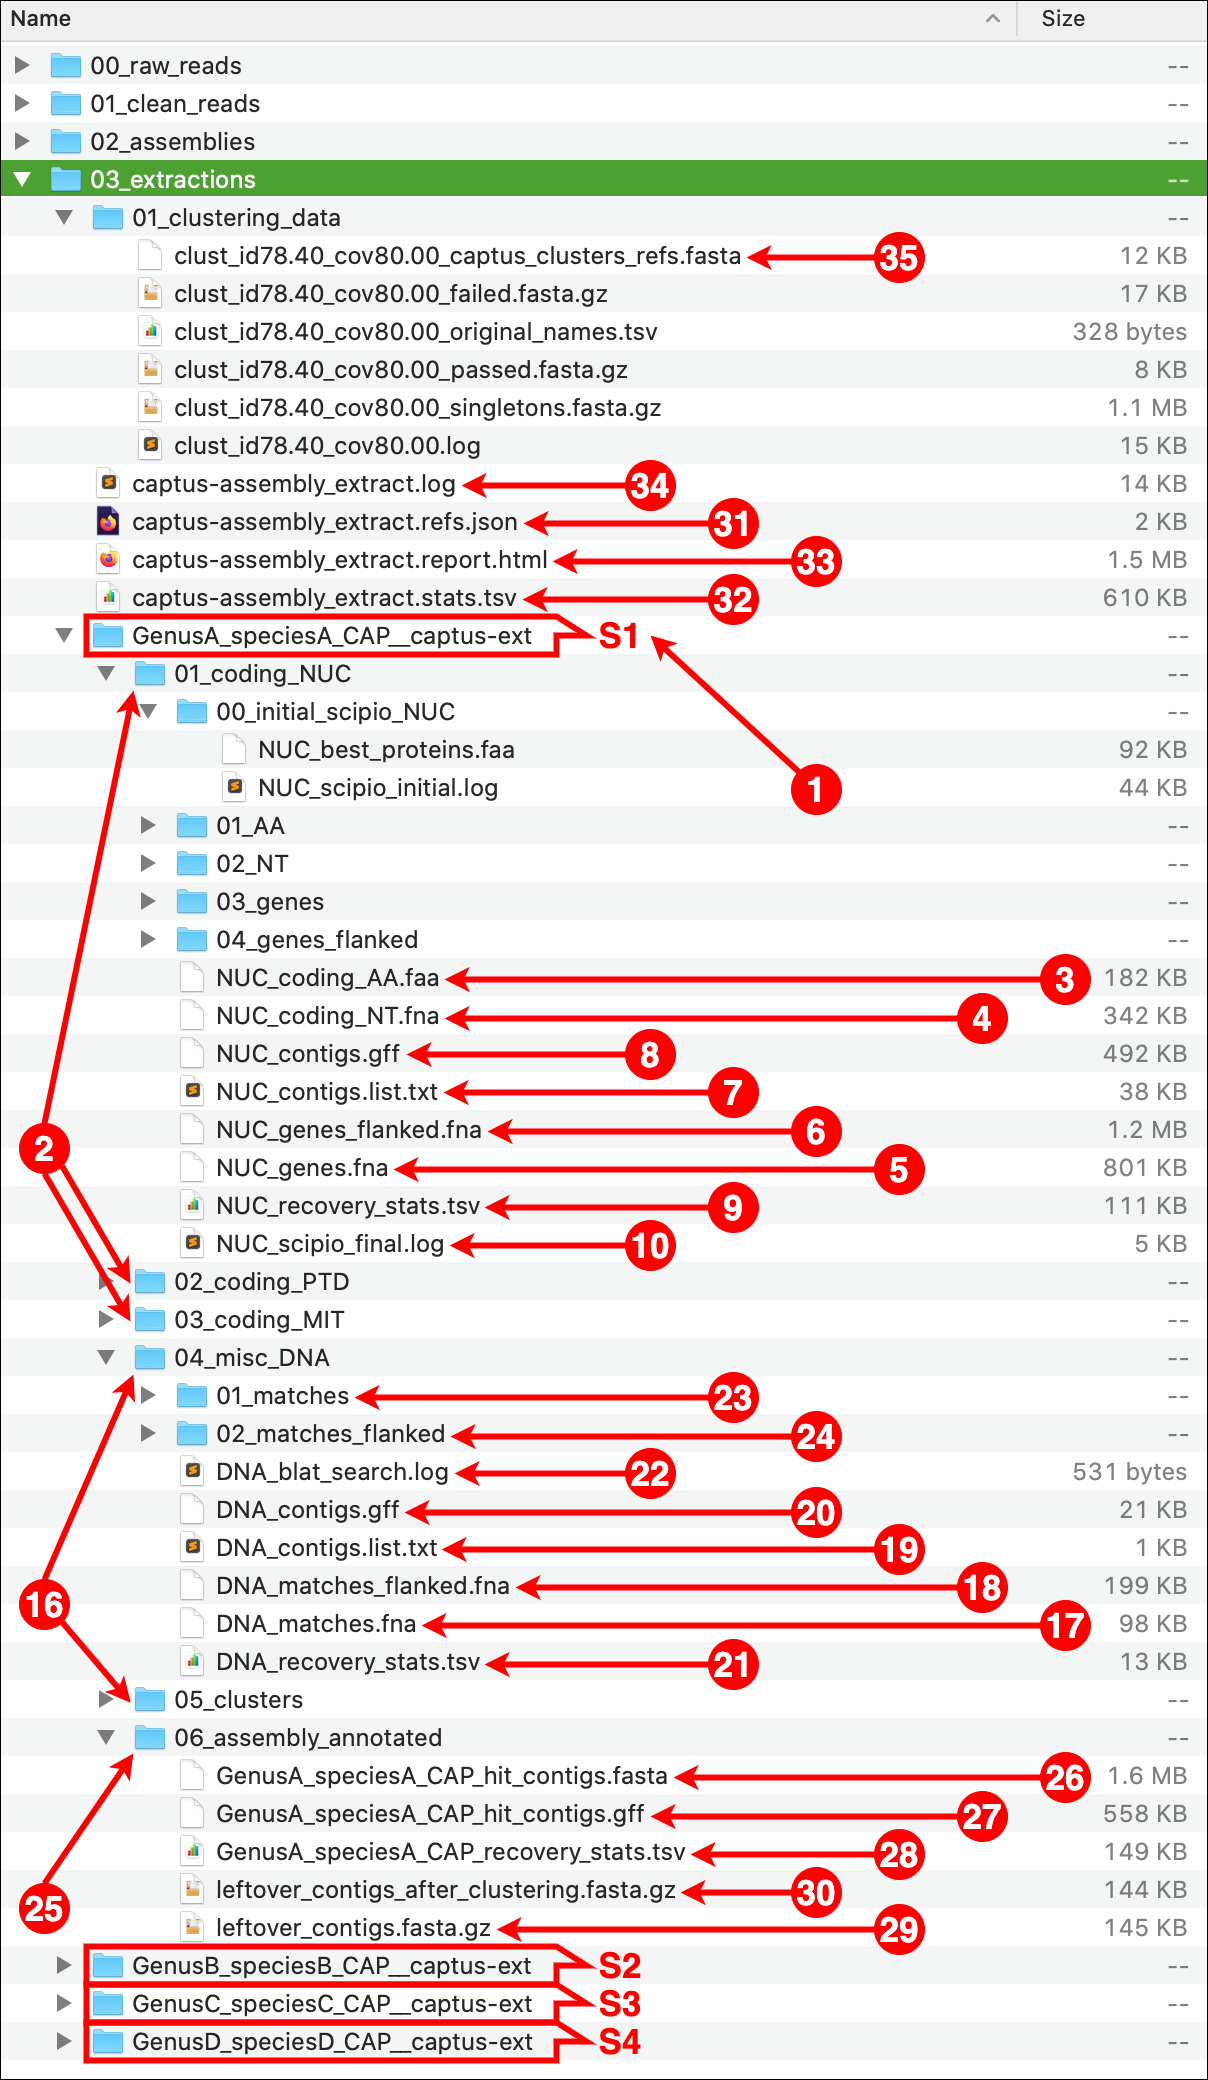
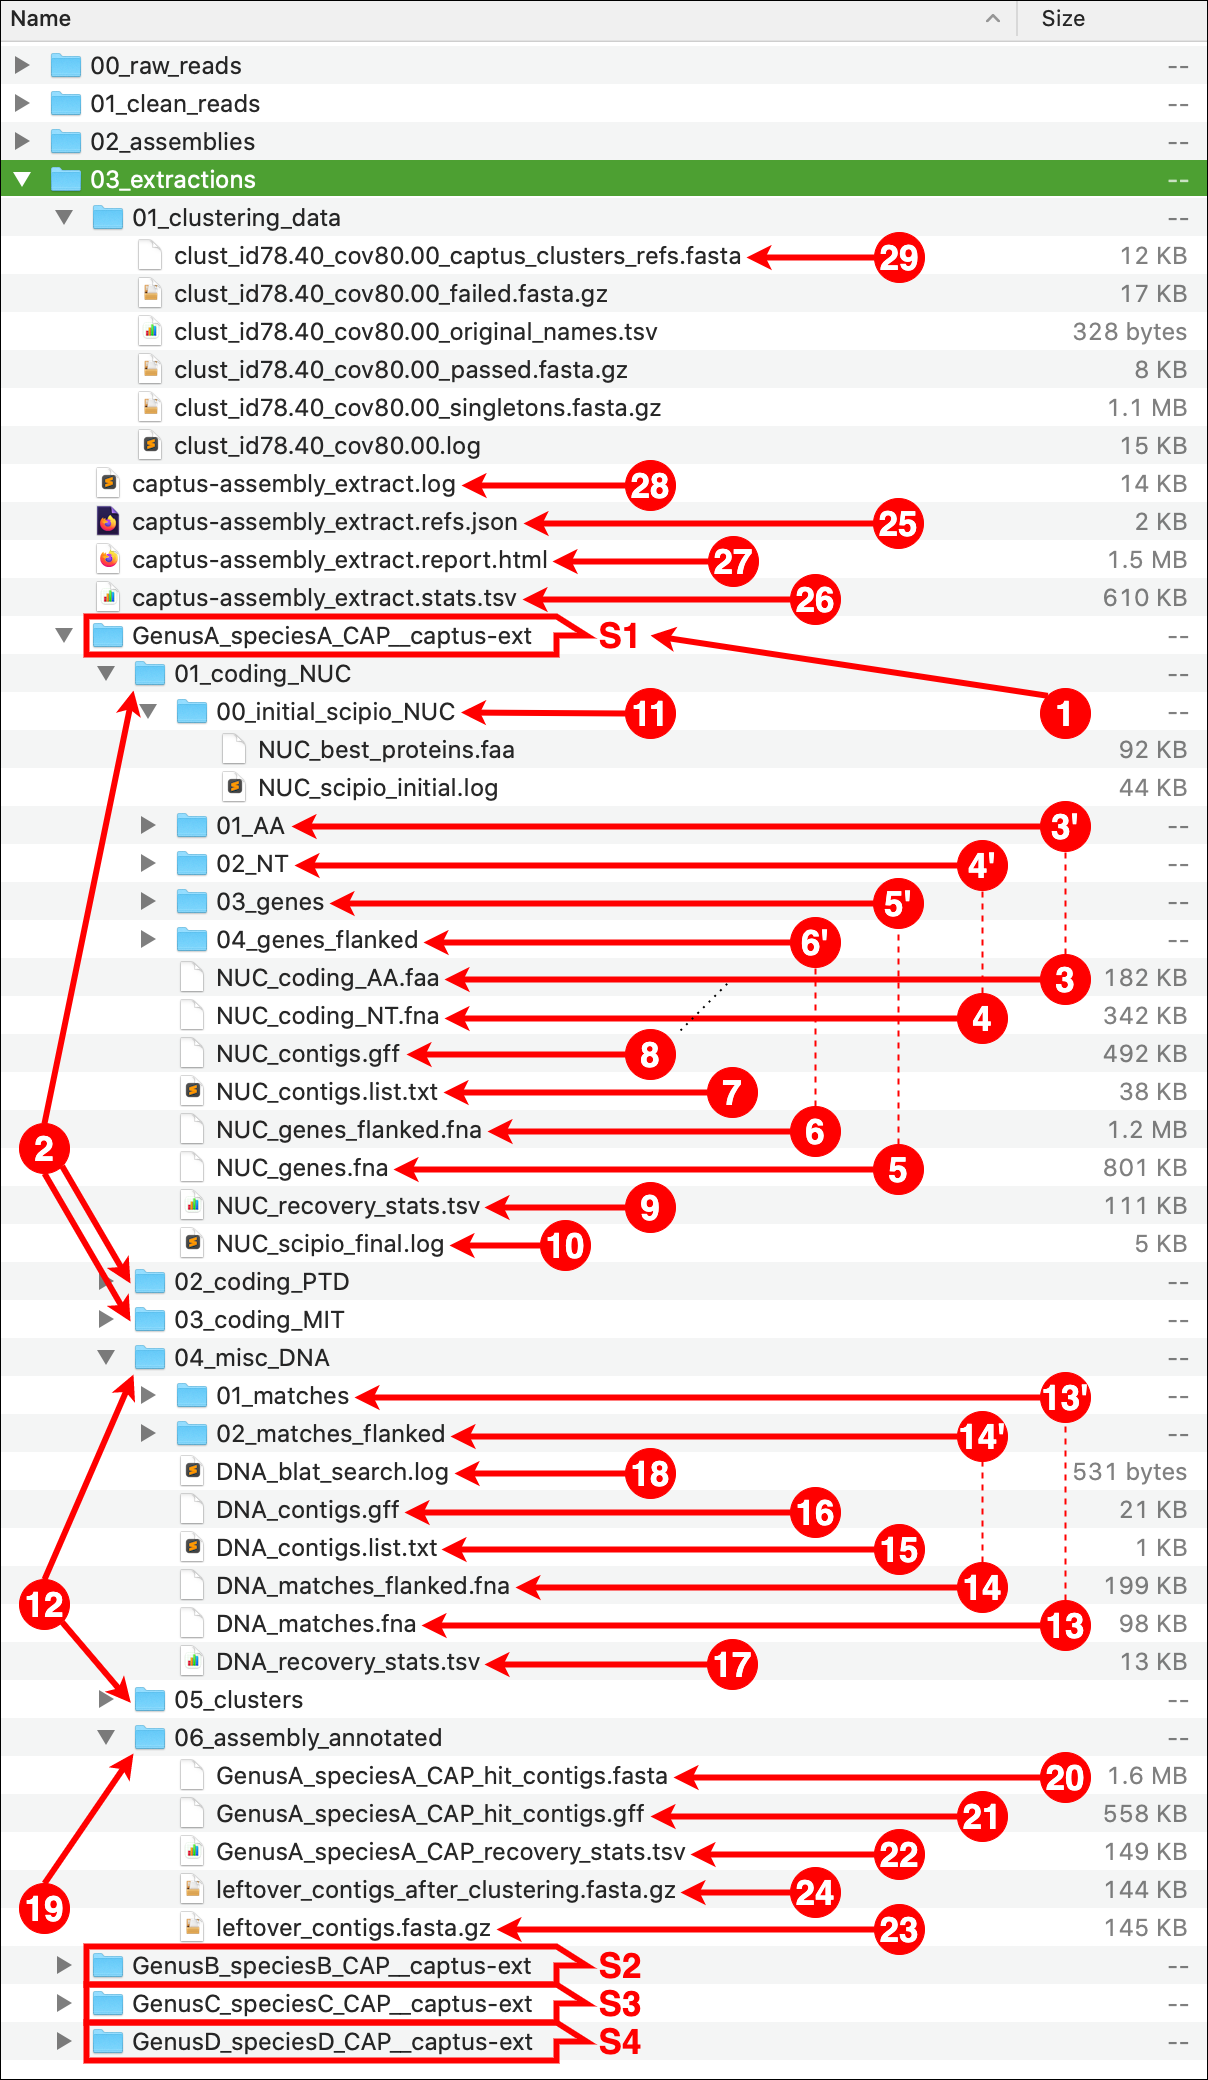
Updating to v0.0.28
- Fixed bug that didn't apply presets for assembly and instead always used default parameters

diff --git a/captus/assemble.py b/captus/assemble.py
@@ -205,21 +205,20 @@ def assemble(full_command, args):
     log.log(f'{"Threads per assembly":>{mar}}: {bold(threads_per_assembly)}')
     log.log("")
 
-    k_list, min_count, prune_level = args.k_list, args.min_count, args.prune_level
-    if args.preset:
-        if args.preset.upper() in settings.MEGAHIT_PRESETS:
-            if k_list == settings.MEGAHIT_K_LIST:
-                k_list = settings.MEGAHIT_PRESETS[args.preset.upper()]["k_list"]
-            if min_count == settings.MEGAHIT_MIN_COUNT:
-                min_count = settings.MEGAHIT_PRESETS[args.preset.upper()]["min_count"]
-            if prune_level == settings.MEGAHIT_PRUNE_LEVEL:
-                prune_level = settings.MEGAHIT_PRESETS[args.preset.upper()]["prune_level"]
-            log.log(f'{"preset":>{mar}}: {bold(args.preset.upper())}')
-        else:
-            log.log(f'{"preset":>{mar}}: {bold(args.preset)} not valid, using defaults!')
-
+    if not args.preset:
+        args.preset = "CAP"
+    if args.preset.upper() not in settings.MEGAHIT_PRESETS:
+        invalid_preset = args.preset
+        args.preset = "CAP"
+        log.log(f'{"preset":>{mar}}: {bold(args.preset)} ({invalid_preset} is not a valid preset)')
+    else:
+        args.preset = args.preset.upper()
+        log.log(f'{"preset":>{mar}}: {bold(args.preset.upper())}')
+    k_list = args.k_list if args.k_list else settings.MEGAHIT_PRESETS[args.preset]["k_list"]
     log.log(f'{"k_list":>{mar}}: {bold(k_list)}')
+    min_count = args.min_count if args.min_count else settings.MEGAHIT_PRESETS[args.preset]["min_count"]
     log.log(f'{"min_count":>{mar}}: {bold(min_count)}')
+    prune_level = args.prune_level if args.prune_level else settings.MEGAHIT_PRESETS[args.preset]["prune_level"]
     log.log(f'{"prune_level":>{mar}}: {bold(prune_level)}')
     log.log(f'{"merge_level":>{mar}}: {bold(args.merge_level)}')
     log.log(f'{"min_contig_len":>{mar}}: {bold(args.min_contig_len)}')
@@ -244,9 +243,9 @@ def assemble(full_command, args):
             fastq_dir,
             fastq_r1,
             fastq_r2,
-            args.k_list,
-            args.min_count,
-            args.prune_level,
+            k_list,
+            min_count,
+            prune_level,
             args.merge_level,
             ram_B_per_assembly,
             threads_per_assembly,

diff --git a/captus/captus_assembly.py b/captus/captus_assembly.py
@@ -379,7 +379,6 @@ class CaptusAssembly(object):
         megahit_group.add_argument(
             "--k_list",
             action="store",
-            default=settings.MEGAHIT_K_LIST,
             type=str,
             dest="k_list",
             help="Comma-separated list of kmer sizes, all must be odd values in the range 15-255, in"
@@ -391,7 +390,6 @@ class CaptusAssembly(object):
         megahit_group.add_argument(
             "--min_count",
             action="store",
-            default=settings.MEGAHIT_MIN_COUNT,
             type=int,
             dest="min_count",
             help="Minimum contig depth (a.k.a. multiplicity in MEGAHIT), accepted values are"
@@ -402,7 +400,6 @@ class CaptusAssembly(object):
         megahit_group.add_argument(
             "--prune_level",
             action="store",
-            default=settings.MEGAHIT_PRUNE_LEVEL,
             type=int,
             dest="prune_level",
             help="Prunning strength for low-coverage edges during graph cleaning. Increasing the"
@@ -427,6 +424,7 @@ class CaptusAssembly(object):
             help="B|The defaults work well with either hybridization capture or genome skimming data"
                  " up to 10M reads. You can assemble RNA-Seq reads or WGS reads using these presets."
                  " Be aware, these will require a minimum of 8GB of RAM to work well.\n"
+                 "CAP = --k-list 31,39,47,63,79,95,111,127,143,159,175 --min-count 2 --prune-level 2\n"
                  "RNA = --k-list 27,47,67,87,107,127,147,167 --min-count 2 --prune-level 2\n"
                  "WGS = --k-list 31,39,51,71,91,111,131,151,171 --min-count 3 --prune-level 2"
         )

diff --git a/captus/settings_assembly.py b/captus/settings_assembly.py
@@ -133,13 +133,14 @@ DELTA_MEAN_READ_LENGTH_TO_MAX_KMER_SIZE = 31
 # Minimum RAM in bytes for a MEGAHIT assembly
 MEGAHIT_MIN_RAM_B = 4 * 1024 ** 3
 
-# Defaults for MEGAHIT, optimized for hybridization capture or genome skimming
-MEGAHIT_K_LIST = "31,39,47,63,79,95,111,127,143,159,175"
-MEGAHIT_MIN_COUNT = 2
-MEGAHIT_PRUNE_LEVEL = 2
-
 # Presets for MEGAHIT assemblies of RNAseq and WGS
 MEGAHIT_PRESETS = {
+    "CAP": {
+        "k_list": "31,39,47,63,79,95,111,127,143,159,175",
+        "min_count": 2,
+        "prune_level": 2,
+        "min_ram_B": 4 * 1024 ** 3, # 4GB
+    },
     "RNA": {
         "k_list": "27,47,67,87,107,127,147,167",
         "min_count": 2,
@@ -147,7 +148,7 @@ MEGAHIT_PRESETS = {
         "min_ram_B": 8 * 1024 ** 3, # 8GB
     },
     "WGS": {
-        "k_list": "31,39,51,71,91,111,131,151,171",
+        "k_list": "31,39,49,69,89,109,129,149,169",
         "min_count": 3,
         "prune_level": 2,
         "min_ram_B": 8 * 1024 ** 3, # 8GB

diff --git a/captus/version.py b/captus/version.py
@@ -14,4 +14,4 @@ details. You should have received a copy of the GNU General Public License along
 not, see <http://www.gnu.org/licenses/>.
 """
 
-__version__ = '0.0.27'
+__version__ = '0.0.28'

diff --git a/docs/content/assembly/extract/output.md b/docs/content/assembly/extract/output.md
@@ -7,45 +7,102 @@ pre: '<i class="fas fa-dna"></i> '
 For this example we will use the directory `02_assemblies` previously created with the [`assemble` module]({{< ref "assembly/assemble/output">}}). We run the following `Captus` command to search and extract our reference markers from the assemblies:
 
 ```console
-captus_assembly extract \
--a 02_assemblies -o 03_extractions \
--n Angiosperms353 \
--p SeedPlantsPTD \
--m SeedPlantsMIT \
--d noncoding_DNA.fasta \
---cluster_leftovers
+captus_assembly extract -a 02_assemblies \
+-n Angiosperms353 -p SeedPlantsPTD -m SeedPlantsMIT \
+-d noncoding_DNA.fasta --cluster_leftovers
 ```
 
 After the run is finished we should see a new directory called `03_extractions` with the following structure and files:
 
 ![Extractions](/images/extractions.png?width=604)
 
-### 1. **`[sample]__captus-ext`**
+### 1. **`[SAMPLE_NAME]__captus-ext`**
 A subdirectory ending in `__captus-ext` is created to contain the extracted markers of each sample separately (S1, S2, S3, and S4 in the image).
 ___
-### 2. **`01_coding_NUC`, `02_coding_PTD`, `03_coding_MIT`**
+### 2. **`01_coding_NUC`**, **`02_coding_PTD`**, **`03_coding_MIT`**
 These directories contain the extracted **coding** markers from the **NUC**lear, **P**las**T**i**D**ial, and **MIT**ochondrial genomes respectively.
 ___
-### 3. **`_coding_AA.faa`**
+### 3. **`[MARKER_TYPE]_coding_AA.faa`**, **`01_AA`**
 Coding sequence in **aminoacids**. Prefixes can be `NUC`, `PTD`, or `MIT`.
 ___
-### 4. **`_coding_NT.fna`**
+### 4. **`[MARKER_TYPE]_coding_NT.fna`**, **`02_NT`**
 Coding sequence in **nucleotides**. Prefixes can be `NUC`, `PTD`, or `MIT`.
 ___
-### 5. **`_genes.fna`**
+### 5. **`[MARKER_TYPE]_genes.fna`**, **`03_genes`**
 Gene sequence (exons in capital letters + introns in lowercase letters) in **nucleotides**. Prefixes can be `NUC`, `PTD`, or `MIT`.
 ___
-### 6. **`_genes_flanked.fna`**
+### 6. **`[MARKER_TYPE]_genes_flanked.fna`**, **`04_genes_flanked`**
 Gene sequence (exons in capital letters + introns in lowercase letters) plus additional flanking sequence in lowercase **nucleotides**. Prefixes can be `NUC`, `PTD`, or `MIT`.
 ___
-### 7. **`_contigs_list.txt`**
+### 7. **`[MARKER_TYPE]_contigs_list.txt`**
 List of contig names that had protein hits. Prefixes can be `NUC`, `PTD`, or `MIT`.
 ___
-### 8. **`_contigs.gff`**
+### 8. **`[MARKER_TYPE]_contigs.gff`**
+Annotation track in GFF format for protein hits to contigs in assembly. Prefixes can be `NUC`, `PTD`, or `MIT`.
+___
+### 9. **`[MARKER_TYPE]_recovery_stats.tsv`**
+Tab-separated-values table with marker recovery statistics, these are summarized in the final [Marker Recovery report]({{< ref "assembly/extract/report">}}). Prefixes can be `NUC`, `PTD`, or `MIT`.
+___
+### 10. **`[MARKER_TYPE]_scipio_final.log`**
+Log of the second Scipio's run, where best references have already been selected (when using multi-sequence per locus references) and only the contigs that had hits durin Scipio's initial run are used. Prefixes can be `NUC`, `PTD`, or `MIT`.
+___
+### 11. **`00_initial_scipio_[MARKER_TYPE]`**
+Directory for Scipio's initial run results. The directory contains the set of filtered protein references `[MARKER_TYPE]_best_proteins.faa` (when using multi-sequence per locus references) and the log of Scipio's initial run `[MARKER_TYPE]_scipio_initial.log`. Suffixes can be `NUC`, `PTD`, or `MIT`.
+___
+### 12. **`04_misc_DNA`**, **`05_clusters`**
+These directories contain the extracted **miscellaneous DNA** markers, either from a **DNA** custom set of references or from the **CL**uste**R**ing resulting from using the option `--cluster_leftovers`.
+___
+### 13. **`[MARKER_TYPE]_matches.fna`**, **`01_matches`**
+Matches per miscellaneous DNA marker in **nucleotides**. Prefixes can be `DNA` or `CLR`.
+___
+### 14. **`[MARKER_TYPE]_matches_flanked.fna`**, **`02_matches_flanked`**
+Matches plus additional flanking sequence per miscellaneous DNA marker in **nucleotides**. Prefixes can be `DNA` or `CLR`.
+___
+### 15. **`[MARKER_TYPE]_contigs_list.txt`**
+List of contig names that had miscellaneous DNA marker hits. Prefixes can be `DNA` or `CLR`.
+___
+### 16. **`[MARKER_TYPE]_contigs.gff`**
 Fill
 ___
-### 9. **`_recovery_stats.tsv`**
+### 17. **`[MARKER_TYPE]_recovery_stats.tsv`**
 Fill
 ___
-### 10. **`_scipio_final.log`**
+### 18. **`[MARKER_TYPE]_blat_search.log`**
 Fill
+___
+### 19. **`06_assembly_annotated`**
+Fill
+___
+### 20. **`[SAMPLE_NAME]_hit_contigs.fasta`**
+Fill
+___
+### 21. **`[SAMPLE_NAME]_hit_contigs.gff`**
+Fill
+___
+### 22. **`[SAMPLE_NAME]_recovery_stats.tsv`**
+Fill
+___
+### 23. **`leftover_contigs.fasta.gz`**
+Fill
+___
+### 24. **`leftover_contigs_after_custering.fasta.gz`**
+Fill
+___
+### 25. **`captus-assembly_extract.refs.json`**
+Fill
+___
+### 26. **`captus-assembly_extract.stats.tsv`**
+Fill
+___
+### 27. **`captus-assembly_extract.report.html`**
+Fill
+___
+### 28. **`captus-assembly_extract.log`**
+Fill
+___
+### 29. **`clust_id##.##_cov##.##_captus_clusters_refs.fasta`**
+Fill
+
+___
+Created by [Edgardo M. Ortiz]({{< ref "../../credits/#edgardo-m-ortiz">}}) (2021-08-06)  
+Last modified by [Edgardo M. Ortiz]({{< ref "../../credits/#edgardo-m-ortiz">}}) (2021-09-13)

diff --git a/docs/content/assembly/clean/output.md b/docs/content/assembly/clean/output.md
@@ -18,7 +18,7 @@ Notice we are using default settings, the only required argument is the location
 
 ![Clean reads](/images/clean_reads.png?width=604)
 
-### 1. **`[sample]_R1.fq.gz`, `[sample]_R2.fq.gz`**
+### 1. **`[sample]_R1.fq.gz`**, **`[sample]_R2.fq.gz`**
 In case of paired-end input we will have a pair of file like in the image, the forward reads are indicated by _R1 and the reverse reads by _R2. Single-end input will only return forward reads.
 ___
 ### 2. **`[sample].cleaning.log`**
@@ -36,7 +36,7 @@ ___
 ### 6. **`00_adaptors_trimmed`**
 This is an intermediate directory that contains the FASTQ files without adaptors, prior to quality-trimming and filtering. The directory also stores `bbduk.sh` commands and logs for the adaptor trimming stage. If the option `--keep_all` was enabled the FASTQs from this intermediate are kept after the run, otherwise they are deleted.
 ___
-### 7. **`01_qc_stats_before`, `02_qc_stats_after`**
+### 7. **`01_qc_stats_before`**, **`02_qc_stats_after`**
 These directories contain the results from either `Falco` or `FastQC`, organized in a subdirectory per FASTQ file analyzed.
 ___
 ### 8. **`03_qc_extras`**

diff --git a/docs/content/assembly/assemble/output.md b/docs/content/assembly/assemble/output.md
@@ -51,7 +51,7 @@ ___
 The assembly graph in [FASTG format](http://fastg.sourceforge.net/FASTG_Spec_v1.00.pdf). This file can be explored in [Bandage](https://rrwick.github.io/Bandage/) or similar software which are able to plot the connections between contigs, loops, circular segments, etc.
 ![FASTG in Bandage](/images/fastg_in_bandage.png?classes=shadow)
 ___
-### 6. **`assembly.stats.tsv`, `assembly.stats.t.tsv`**
+### 6. **`assembly.stats.tsv`**, **`assembly.stats.t.tsv`**
 Assembly statistics, the `assembly.stats.t.tsv` is just a transposed version of `assembly.stats.tsv`:
 ```text
               sample : GenusA_speciesA_CAP
@@ -78,7 +78,7 @@ pct_contigs_>=_10kbp : 0.984
   pct_contigs_>=_10x : 38.47
 ```
 ___
-### 7. **`megahit.brief.log`, `megahit.full.log`**
+### 7. **`megahit.brief.log`**, **`megahit.full.log`**
 `MEGAHIT` program logs, the _brief_ version contains just the screen output from each `MEGAHIT` run.
 ___
 ### 8. **`captus-assembly_assemble.stats.tsv`**
